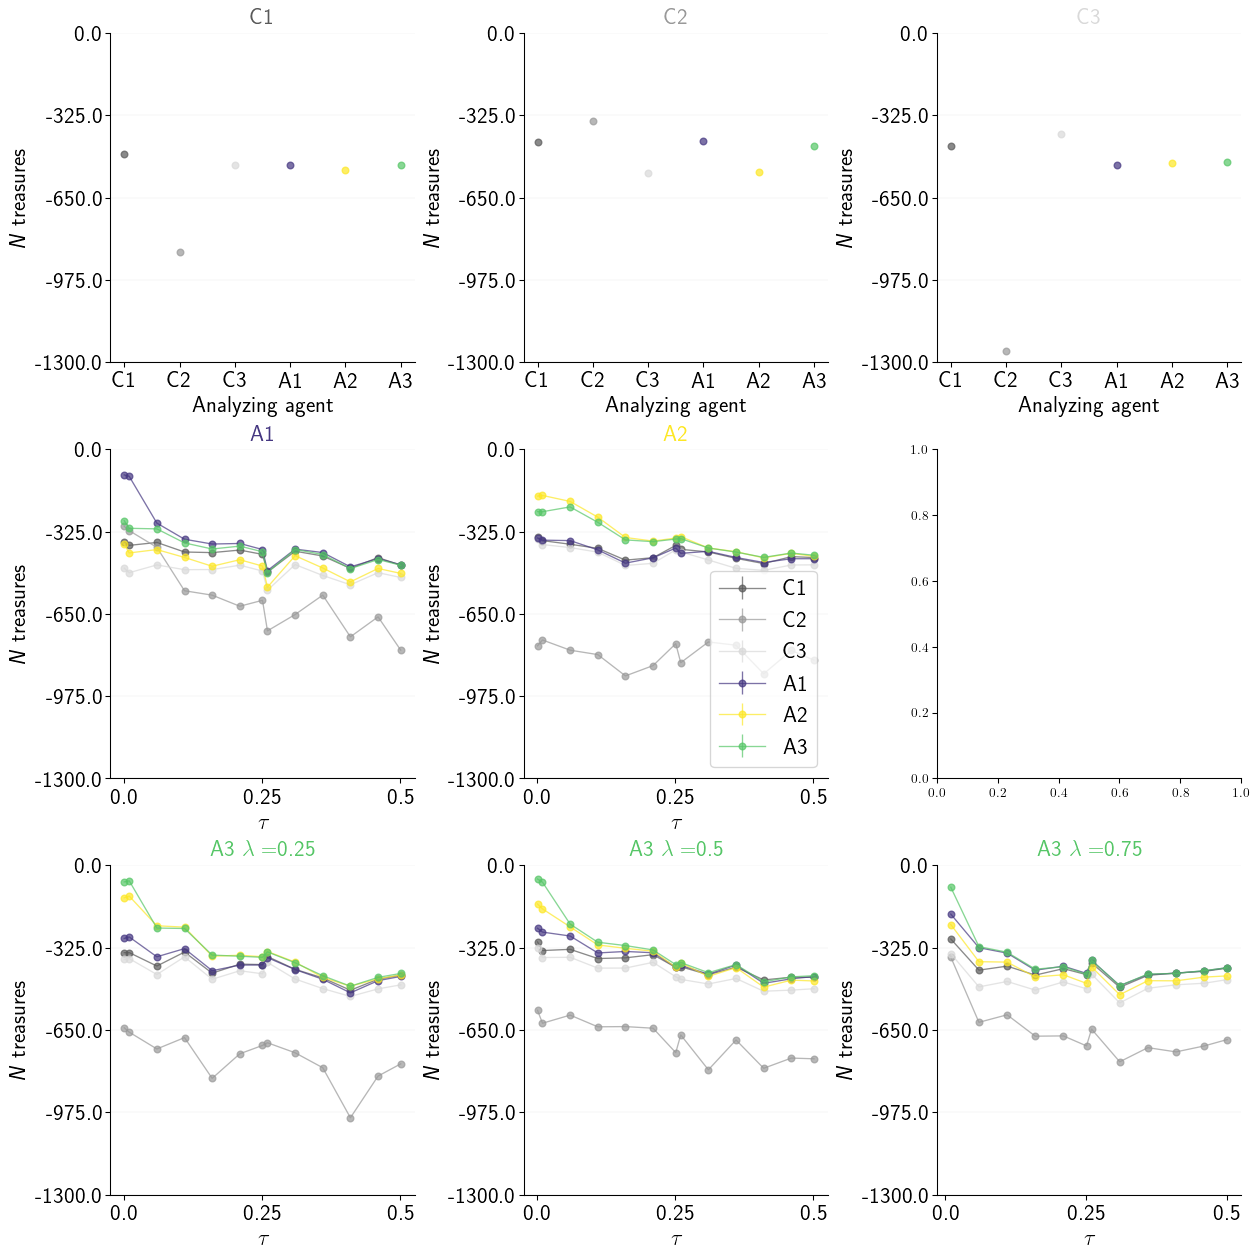
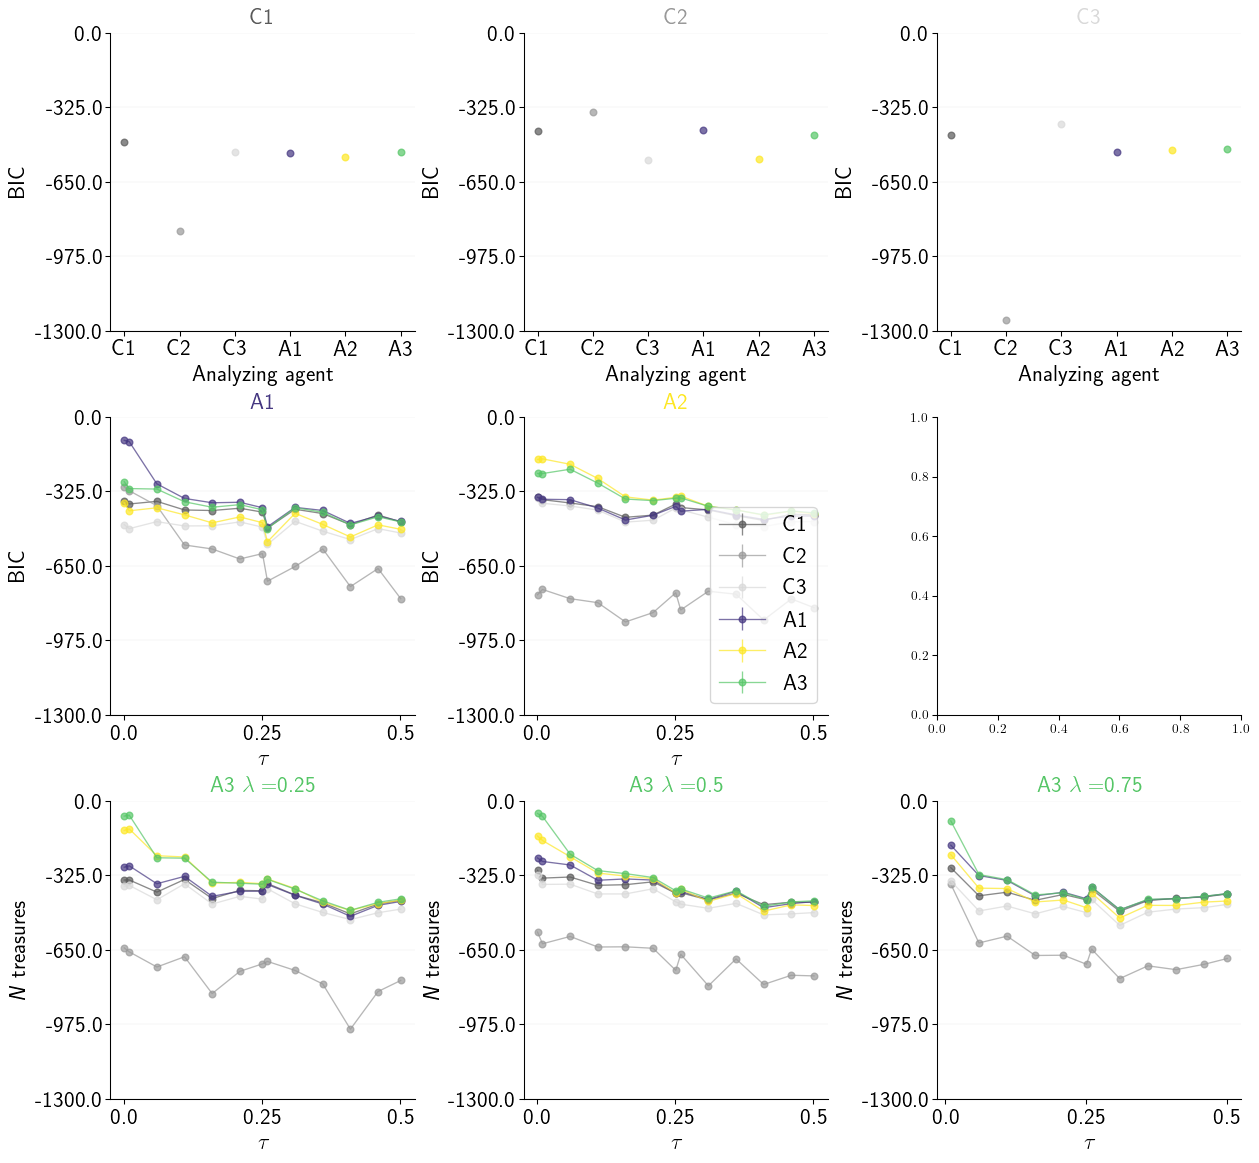
update

diff --git a/report/test_report.html b/report/test_report.html
@@ -161,6 +161,20 @@ pre > code.sourceCode > span > a:first-child::before { text-decoration: underlin
 </div>
 </div>
 </section>
+<section id="model-estimation-and-comparison" class="level2">
+<h2 class="anchored" data-anchor-id="model-estimation-and-comparison">Model estimation and comparison</h2>
+<div id="fig-model-estimation" class="quarto-figure quarto-figure-center anchored">
+<figure class="figure">
+<details>
+<summary>Code</summary>
+<div class="sourceCode cell-code" id="cb6"><pre class="sourceCode python code-with-copy"><code class="sourceCode python"><span id="cb6-1"><a href="#cb6-1" aria-hidden="true" tabindex="-1"></a><span class="co"># plot_model_estimation_results(exp_label=exp_label,</span></span>
+<span id="cb6-2"><a href="#cb6-2" aria-hidden="true" tabindex="-1"></a><span class="co">#                               vers="test_1",</span></span>
+<span id="cb6-3"><a href="#cb6-3" aria-hidden="true" tabindex="-1"></a><span class="co">#                               save_file=False)</span></span></code><button title="Copy to Clipboard" class="code-copy-button"><i class="bi"></i></button></pre></div>
+</details>
+<figcaption class="figure-caption">Figure&nbsp;3: <strong>?(caption)</strong></figcaption>
+</figure>
+</div>
+</section>
 
 </main>
 <!-- /main column -->

diff --git a/code/utilities/plot_model_estimation.py b/code/utilities/plot_model_estimation.py
@@ -1,9 +1,11 @@
-"""This script plots model fitting performance results: BICs"""
+#!/usr/bin/env python3
+"""This script plots model fitting for experimental data
+performance results: BICs"""
 import math
 import numpy as np
 from matplotlib import pyplot
-from utilities.very_plotter_new import VeryPlotter, PlotCustomParams
 from utilities.config import DirectoryManager, DataHandler
+from utilities.very_plotter_new import VeryPlotter, PlotCustomParams
 
 
 def plot_model_fitting_perf(
@@ -12,8 +14,8 @@ def plot_model_fitting_perf(
 
     # Get and prepare data
     dir_mgr = DirectoryManager()
-    dir_mgr.define_model_est_results_path(exp_label=EXP_LABEL,
-                                          version=VERSION)
+    dir_mgr.define_model_est_results_path(exp_label=exp_label,
+                                          version=vers)
     data_loader = DataHandler(dir_mgr.paths, exp_label=EXP_LABEL)
     all_bics_df = data_loader.load_data_in_one_folder(
         folder_path=dir_mgr.paths.this_model_est_results_dir
@@ -28,9 +30,9 @@ def plot_model_fitting_perf(
             ["mean", "std"])
 
     bic_min_for_yaxis = int(math.floor(
-        np.nanmin(bic_group_average.loc[:]/ 100.0)) * 100)
+        np.nanmin(bic_group_average)/100)*100)
     bic_max_for_yaxis = int(math.ceil(
-        np.nanmax(bic_group_average.loc[:]/ 100.0)) * 100)
+        np.nanmax(bic_group_average/100))*100)
     bic_y_tick = np.round(np.linspace(bic_min_for_yaxis, bic_max_for_yaxis, 5),
                           decimals=2)
 
@@ -78,7 +80,6 @@ def plot_model_fitting_perf(
 
     plotter.config_axes(
         ax=ax,
-        #title="Model recovery with experimental data",
         x_label="Analyzing agent",
         y_label="BIC",
         axix_label_size=plt_params.axis_label_fs,
@@ -89,6 +90,7 @@ def plot_model_fitting_perf(
         ticksize=plt_params.axis_tick_fs)
 
     plotter.save_figure(fig=fig, figure_filename=FIGURE_FILENAME)
+
 
 if __name__ == "__main__":
 

diff --git a/code/utilities/plot_model_recovery.py b/code/utilities/plot_model_recovery.py
@@ -3,8 +3,8 @@
 import math
 import numpy as np
 from matplotlib import pyplot
-from utilities.very_plotter_new import VeryPlotter, PlotCustomParams
 from utilities.config import DirectoryManager, DataHandler
+from utilities.very_plotter_new import VeryPlotter, PlotCustomParams
 
 
 def plot_model_recov_results(

diff --git a/code/utilities/very_plotter_new.py b/code/utilities/very_plotter_new.py
@@ -2,7 +2,7 @@ import numpy as np
 import wesanderson
 import string
 import palettable
-from utilities.config import Paths
+from config import Paths
 from dataclasses import dataclass
 import os
 
